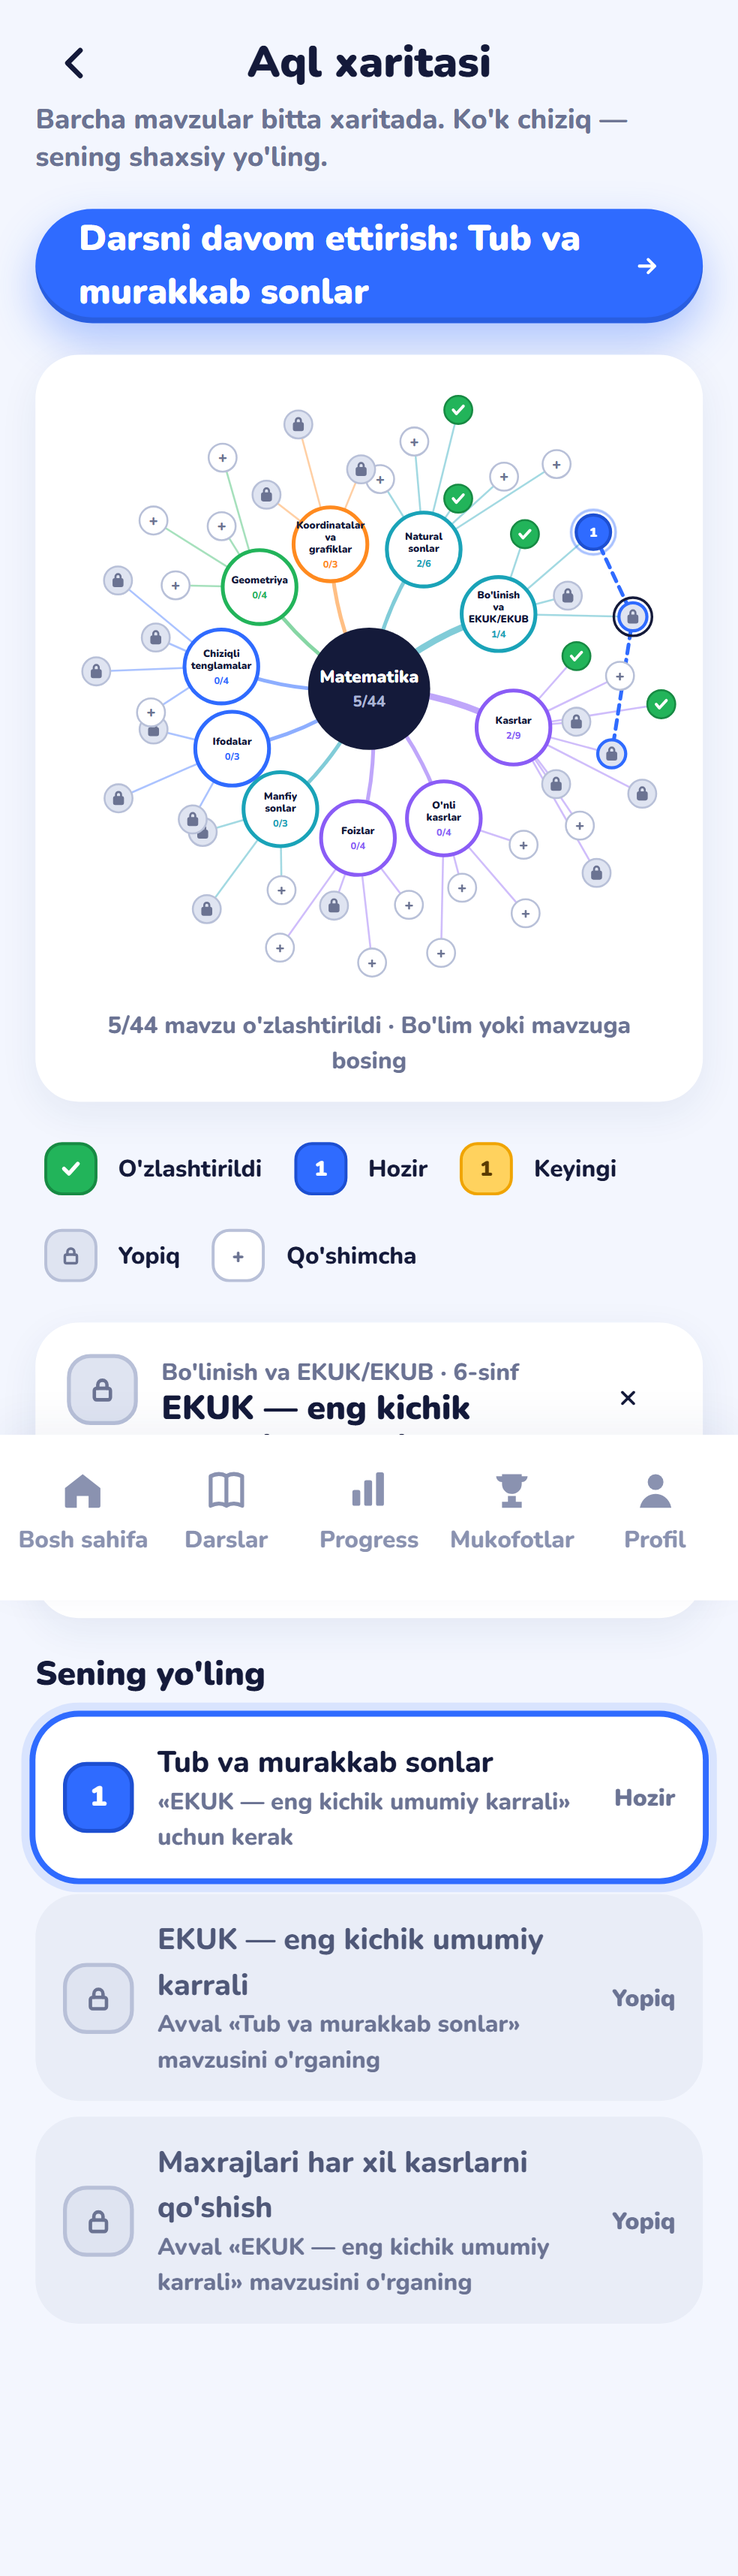
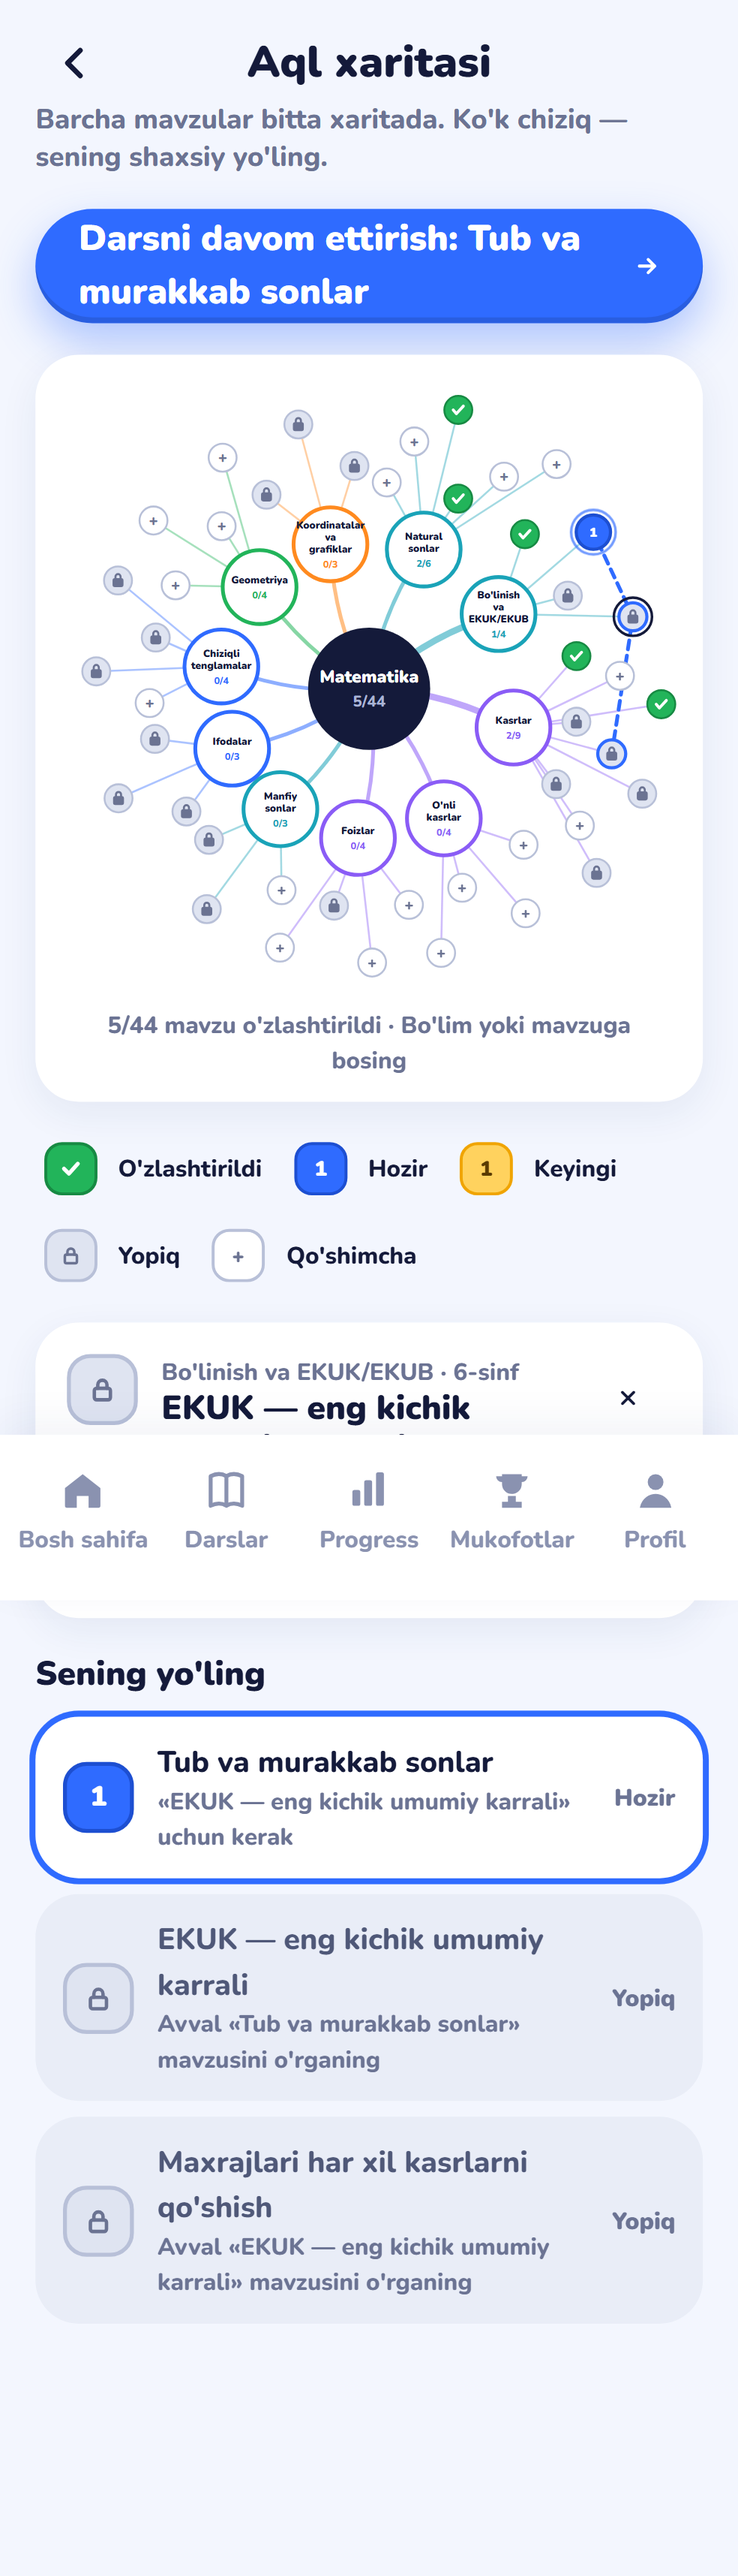
fix(map): mind-map skill dots never overlap — pure layout module + relaxation, tested

diff --git a/src/components/roadmap/mindmapLayout.ts b/src/components/roadmap/mindmapLayout.ts
@@ -1,0 +1,82 @@
+// Pure geometry for the mind map (MindMap.tsx): radial placement of sections and skills + overlap relaxation.
+import type { MindLeaf, MindMap as MindMapData } from "@/lib/learning/path";
+
+export const SIZE = 1000;
+export const C = SIZE / 2;
+const R_BRANCH = 235;
+export const R_NODE = 58;
+// leaves alternate between rings so neighbours don't touch (3 rings for big sections)
+const RINGS_2 = [345, 430];
+const RINGS_3 = [330, 395, 460];
+
+export interface Placed {
+  leaf: MindLeaf;
+  x: number;
+  y: number;
+  section: string;
+}
+
+export const MIN_LEAF_GAP = 56;
+const R_MIN = 312;
+const R_MAX = 466;
+
+/** Push touching leaves apart (a few passes), keeping them inside the leaf band. Deterministic. */
+function relax(leaves: Placed[]) {
+  for (let pass = 0; pass < 60; pass++) {
+    let moved = false;
+    for (let i = 0; i < leaves.length; i++) {
+      for (let j = i + 1; j < leaves.length; j++) {
+        const a = leaves[i];
+        const b = leaves[j];
+        let dx = b.x - a.x;
+        let dy = b.y - a.y;
+        let d = Math.hypot(dx, dy);
+        if (d >= MIN_LEAF_GAP) continue;
+        if (d < 0.01) {
+          dx = 1;
+          dy = 0;
+          d = 1;
+        }
+        const push = (MIN_LEAF_GAP - d) / 2 + 0.5;
+        a.x -= (dx / d) * push;
+        a.y -= (dy / d) * push;
+        b.x += (dx / d) * push;
+        b.y += (dy / d) * push;
+        moved = true;
+      }
+    }
+    for (const l of leaves) {
+      const r = Math.hypot(l.x - C, l.y - C);
+      const k = Math.min(R_MAX, Math.max(R_MIN, r)) / (r || 1);
+      l.x = C + (l.x - C) * k;
+      l.y = C + (l.y - C) * k;
+    }
+    if (!moved) break;
+  }
+}
+
+export function layoutMindMap(map: MindMapData) {
+  // each section gets a slice proportional to its size (+4 so small sections still fit their bubble)
+  const weights = map.branches.map((b) => b.leaves.length + 4);
+  const total = weights.reduce((a, b) => a + b, 0) || 1;
+  let acc = 0;
+  const branches = map.branches.map((b, i) => {
+    const slice = (2 * Math.PI * weights[i]) / total;
+    const a = -Math.PI / 2 + ((acc + weights[i] / 2) / total) * 2 * Math.PI;
+    acc += weights[i];
+    return { b, a, slice, x: C + R_BRANCH * Math.cos(a), y: C + R_BRANCH * Math.sin(a) };
+  });
+  const leaves: Placed[] = [];
+  for (const br of branches) {
+    const k = br.b.leaves.length;
+    const spread = br.slice * 0.86;
+    const rings = k > 5 ? RINGS_3 : RINGS_2;
+    br.b.leaves.forEach((leaf, j) => {
+      const a = k === 1 ? br.a : br.a - spread / 2 + (spread * j) / (k - 1);
+      const r = rings[j % rings.length];
+      leaves.push({ leaf, section: br.b.section, x: C + r * Math.cos(a), y: C + r * Math.sin(a) });
+    });
+  }
+  relax(leaves);
+  return { branches, leaves };
+}

diff --git a/src/components/roadmap/MindMap.tsx b/src/components/roadmap/MindMap.tsx
@@ -5,14 +5,7 @@
 import type { MindMap as MindMapData, MindLeaf, StepStatus } from "@/lib/learning/path";
 import { subjectOfSection } from "@/config/subjects";
 import { t } from "@/i18n/uz";
-
-const SIZE = 1000;
-const C = SIZE / 2;
-const R_BRANCH = 235;
-const R_NODE = 58;
-// leaves alternate between rings so neighbours don't touch (3 rings for big sections)
-const RINGS_2 = [345, 430];
-const RINGS_3 = [330, 395, 460];
+import { C, R_NODE, SIZE, layoutMindMap } from "./mindmapLayout";
 
 export const STATUS_STYLE: Record<StepStatus, { fill: string; stroke: string; text: string }> = {
   mastered: { fill: "#22b45a", stroke: "#178a43", text: "#fff" },
@@ -55,37 +48,6 @@ function wrap(label: string, max = 11): string[] {
   return lines.slice(0, 3);
 }
 
-interface Placed {
-  leaf: MindLeaf;
-  x: number;
-  y: number;
-  section: string;
-}
-
-export function layoutMindMap(map: MindMapData) {
-  // each section gets a slice proportional to its size (+4 so small sections still fit their bubble)
-  const weights = map.branches.map((b) => b.leaves.length + 4);
-  const total = weights.reduce((a, b) => a + b, 0) || 1;
-  let acc = 0;
-  const branches = map.branches.map((b, i) => {
-    const slice = (2 * Math.PI * weights[i]) / total;
-    const a = -Math.PI / 2 + ((acc + weights[i] / 2) / total) * 2 * Math.PI;
-    acc += weights[i];
-    return { b, a, slice, x: C + R_BRANCH * Math.cos(a), y: C + R_BRANCH * Math.sin(a) };
-  });
-  const leaves: Placed[] = [];
-  for (const br of branches) {
-    const k = br.b.leaves.length;
-    const spread = br.slice * 0.86;
-    const rings = k > 5 ? RINGS_3 : RINGS_2;
-    br.b.leaves.forEach((leaf, j) => {
-      const a = k === 1 ? br.a : br.a - spread / 2 + (spread * j) / (k - 1);
-      const r = rings[j % rings.length];
-      leaves.push({ leaf, section: br.b.section, x: C + r * Math.cos(a), y: C + r * Math.sin(a) });
-    });
-  }
-  return { branches, leaves };
-}
 
 export default function MindMap({
   map,

diff --git a/src/components/roadmap/mindmapLayout.test.ts b/src/components/roadmap/mindmapLayout.test.ts
@@ -1,0 +1,24 @@
+import { describe, expect, it } from "vitest";
+import { layoutMindMap, MIN_LEAF_GAP } from "./mindmapLayout";
+import { buildMindMap, buildPath } from "@/lib/learning/path";
+import { CURRICULA } from "@/data/curricula";
+
+describe("mind map layout", () => {
+  for (const grade of [5, 6, 7, 8]) {
+    it(`no two skill dots touch (maths, grade ${grade})`, () => {
+      const math = CURRICULA.matematika;
+      const p = buildPath(math, {}, grade);
+      const mm = buildMindMap(math, {}, p, { grade, maxGrade: Math.max(grade, 6) + 1 });
+      const { leaves } = layoutMindMap(mm);
+      let min = Infinity;
+      for (let i = 0; i < leaves.length; i++)
+        for (let j = i + 1; j < leaves.length; j++) min = Math.min(min, Math.hypot(leaves[i].x - leaves[j].x, leaves[i].y - leaves[j].y));
+      expect(min).toBeGreaterThanOrEqual(MIN_LEAF_GAP - 4);
+      for (const l of leaves) {
+        const r = Math.hypot(l.x - 500, l.y - 500);
+        expect(r).toBeLessThanOrEqual(470);
+        expect(r).toBeGreaterThanOrEqual(305);
+      }
+    });
+  }
+});

diff --git a/REPORT.md b/REPORT.md
@@ -590,4 +590,7 @@ it already wrote until it steps back.
   `docs/screenshots/mindmap-phone-path.png`.
 - ❓ **Assumption**: the original feature spec ("NEW FEATURE: mind map + personalized roadmap", sections 1–4) was never pasted;
   the team approved building a best guess. Compare with the real spec before merging.
-- ⚠ With 44 skills a few leaves still touch at small-section boundaries on a phone; skills > grade+1 are hidden.
+- Layout: geometry in `src/components/roadmap/mindmapLayout.ts` (pure); touching skill dots are pushed apart (deterministic
+  relaxation inside the leaf band) — tested: no two dots closer than the minimum gap for grades 5–8 (218 unit tests green).
+- ⚠ Skills above grade+1 are hidden on the map; a skill dot is ~19 CSS px on a 375 px phone — the section list and the
+  "Sening yo'ling" list are the full-size tap targets.
